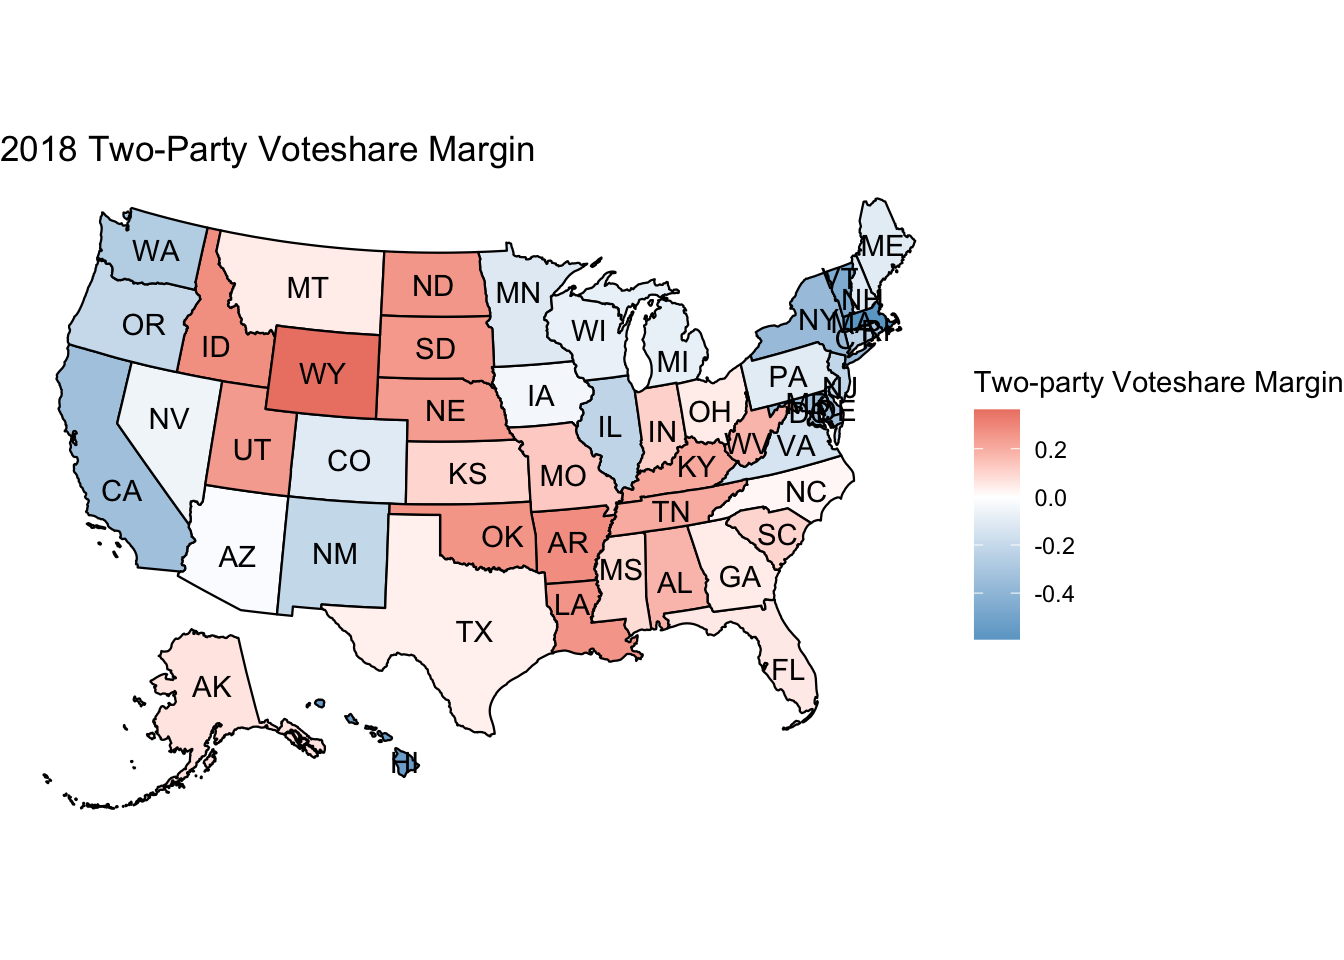
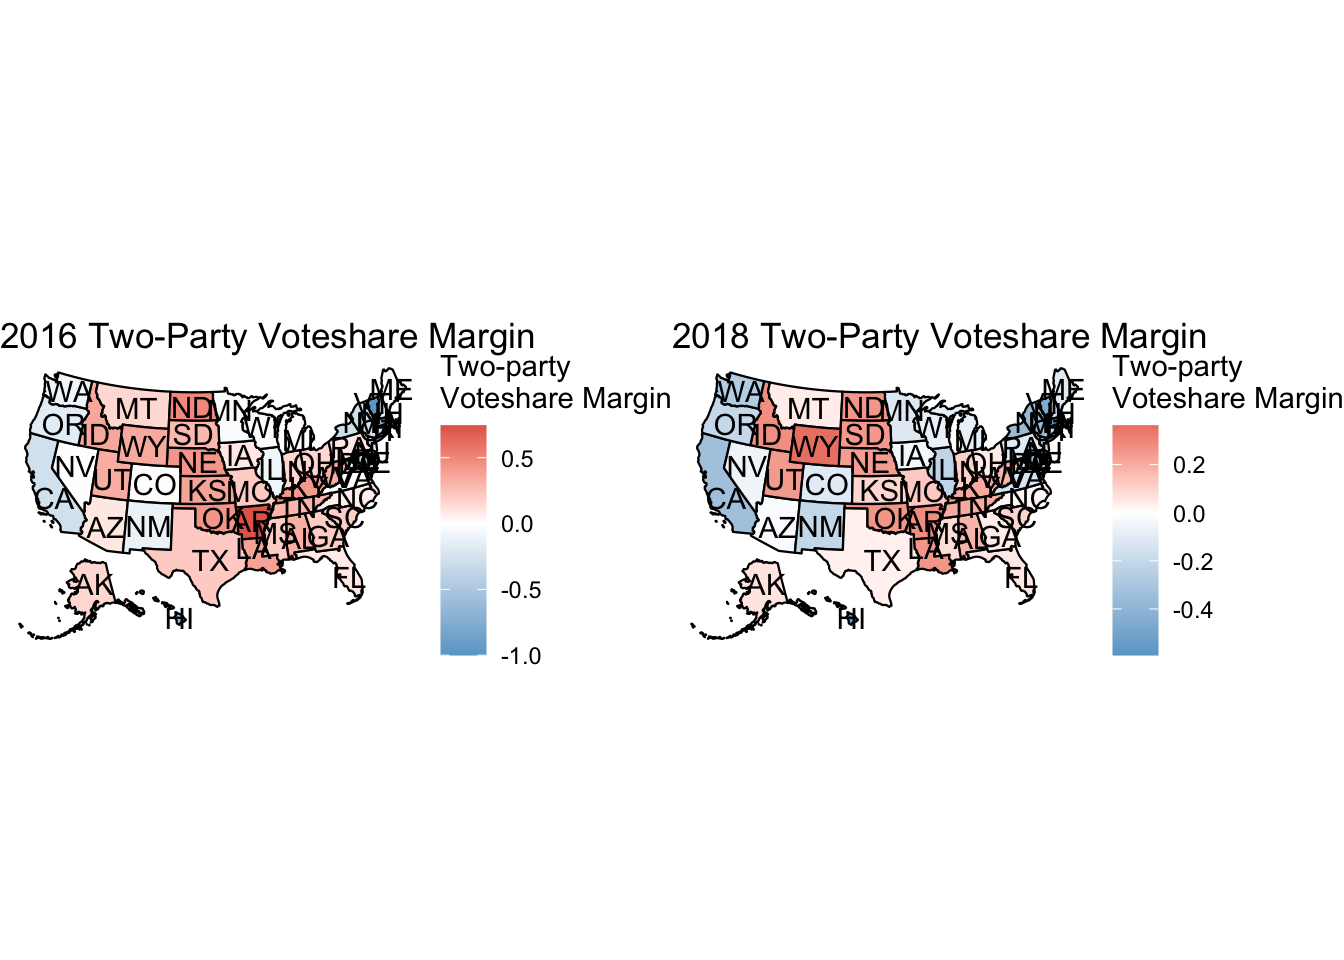
added explanation

Changed region(s): [[0.0, 0.1875, 1.0, 0.8438], [0.0, 0.125, 0.4062, 0.1875], [0.3438, 0.75, 0.375, 0.7812]]

diff --git a/public/post/2022-09-15-blog-1-analysis/index.html b/public/post/2022-09-15-blog-1-analysis/index.html
@@ -6,7 +6,7 @@
 		<meta charset="UTF-8">
 		<meta name="viewport" content="width=device-width, initial-scale=1.0">
 
-		<title>Blog 1 - Analysis &middot; My New Hugo Site</title>
+		<title>Blog 1 - Vote Share Margins of Congressional Elections &middot; My New Hugo Site</title>
 
 		
 		<link rel="stylesheet" href="/css/style.css">
@@ -56,7 +56,7 @@
         <span>on&nbsp;</span><time datetime="2022-09-15 00:00:00 &#43;0000 UTC">September 15, 2022</time>
 </div>
 
-		<h1 class="post-title">Blog 1 - Analysis</h1>
+		<h1 class="post-title">Blog 1 - Vote Share Margins of Congressional Elections</h1>
 <div class="post-line"></div>
 
 		
@@ -64,16 +64,26 @@
 		
 
 
-<p>This week, I looked at the Republican/Democrat voteshare margin of House congressional elections. I analyzed the 2018 and 2014 congressional elections.</p>
+<p>Hello! My name is June Park and I am a junior at the college studying Government on the data science track and this is the beginning of my blog for GOV 1347: Election Analytics.</p>
+<p>This week, I focused on visualization customization of congressional races.</p>
+<div id="map-of-republicandemocrat-vote-share-margin-by-state-2016-2018" class="section level2">
+<h2>Map of Republican/Democrat vote-share margin by STATE (2016, 2018):</h2>
 <p><img src="http://example.org/post/2022-09-15-blog-1-analysis/index_files/figure-html/unnamed-chunk-3-1.png" width="672" /></p>
-<p><img src="http://example.org/post/2022-09-15-blog-1-analysis/index_files/figure-html/unnamed-chunk-5-1.png" width="672" /></p>
+<p>The first set of maps (see above) represent the two-party vote share margin in the 2016 and 2018 congressional elections. Vote share margin indicates the proportion of the <em>difference</em> between the Republican and Democratic vote share <span class="math inline">\(\frac{(RepublicanVotes-DemocratVotes)}{(RepublicanVotes+DemocratVotes)}\)</span>. When the vote share margin is <strong>less than 0</strong>, this means that the majority of the votes went to the <strong>Democratic party</strong>; on the other hand, when the vote share margin is <strong>greater than 0</strong>, this means that the majority of the votes went to the <strong>Republican party</strong>. The greater the absolute value of the vote share margin (e.g., -0.4 or 0.4), the greater the difference in vote share margin between the two parties. For example, in the 2018 election, Pennsylvania had a vote share margin of -0.103, which indicates that the total Democratic vote share was about 10.3% more than the total Republican vote share. However, one caveat to note is that if the vote share margin is 1, this usually means that the candidates in the state ran unopposed, resulting in all of the votes going to the one party.</p>
+<p>The map on the left represents the results of the 2016 congressional elections, while the map on the right represents the results of the 2018 congressional elections. Compared to the 2018 map, the 2016 map has more muted blue states, which indicates states with weaker margins of vote share for Democrats. The 2016 congressional elections coincided with the presidential election of Donald Trump where Republicans saw more victory nationwide. But in the 2018 map, we see many of the states that were muted blue become much deeper blue and even some muted red states turn blue, especially in the Midwest area. In 2018, a historic voter turnout for a midterm election, in what seemed like an ultimatum against Trump, flipped many congressional seats back to blue. For example, in the 2016 congressional elections, the majority of votes went to the Republicans in Pennsylvania, but in 2018 this pattern was reversed and the majority of votes went to the Democrats in Pennsylvania. As a result, the Pennsylvania Democrats gained an additional 3 congressional seats, while the Republicans lost 1 seat.</p>
+</div>
+<div id="map-of-republicandemocrat-vote-share-margin-by-congressional-district-2014" class="section level2">
+<h2>Map of Republican/Democrat vote share margin by CONGRESSIONAL DISTRICT (2014):</h2>
+<p><img src="http://example.org/post/2022-09-15-blog-1-analysis/index_files/figure-html/unnamed-chunk-5-1.png" width="672" />
+This map disaggregates the data so that one can examine the vote share margin at the congressional district level, which allows for more nuanced analysis than the previous maps simply at the state level. For example, in California, at the state-level it would usually be colored “blue” for a vote share margin favoring Democrats, but disaggregating the data to the congressional district level reveals districts where the Republican vote share was greater. In fact, at the state level, the Democratic total vote share was about 7% greater than the Republican total vote share. However, in California’s District 1, the Republican vote share was about 22% greater than the Democratic vote share.</p>
+<p>These exercises have made me think about what is the best way to present data, especially election contestation. I look forward to using other outcome measures, like party seat change, on top of vote share margin in analyzing election results.</p>
+</div>
 
 
 		
 	</div>
 
 	<div class="pagination">
-		<a href="/post/2022-09-15-blog-1/blog1/" class="right arrow">&#8594;</a>
 
 		<a href="#" class="top">Top</a>
 	</div>
@@ -83,7 +93,7 @@
         		<footer>
 			
 			<span>
-			&copy; <time datetime="2022-09-15 01:18:39.556997 -0400 EDT m=&#43;0.093372171">2022</time> . Made with <a href='https://gohugo.io'>Hugo</a> using the <a href='https://github.com/EmielH/tale-hugo/'>Tale</a> theme.
+			&copy; <time datetime="2022-09-15 06:05:29.777848 -0400 EDT m=&#43;0.082314332">2022</time> . Made with <a href='https://gohugo.io'>Hugo</a> using the <a href='https://github.com/EmielH/tale-hugo/'>Tale</a> theme.
 			</span>
 		</footer>
 

diff --git a/content/post/2022-09-15-blog-1-analysis/index.html b/content/post/2022-09-15-blog-1-analysis/index.html
@@ -1,5 +1,5 @@
 ---
-title: "Blog 1 - Analysis"
+title: "Blog 1 - Vote Share Margins of Congressional Elections"
 author: "June Park"
 date: '2022-09-15'
 output: pdf_document
@@ -10,6 +10,17 @@ slug: []
 
 
 
-<p>This week, I looked at the Republican/Democrat voteshare margin of House congressional elections. I analyzed the 2018 and 2014 congressional elections.</p>
-<p><img src="{{< blogdown/postref >}}index_files/figure-html/unnamed-chunk-3-1.png" width="672" /><img src="{{< blogdown/postref >}}index_files/figure-html/unnamed-chunk-3-2.png" width="672" /></p>
-<p><img src="{{< blogdown/postref >}}index_files/figure-html/unnamed-chunk-5-1.png" width="672" /></p>
+<p>Hello! My name is June Park and I am a junior at the college studying Government on the data science track and this is the beginning of my blog for GOV 1347: Election Analytics.</p>
+<p>This week, I focused on visualization customization of congressional races.</p>
+<div id="map-of-republicandemocrat-vote-share-margin-by-state-2016-2018" class="section level2">
+<h2>Map of Republican/Democrat vote-share margin by STATE (2016, 2018):</h2>
+<p><img src="{{< blogdown/postref >}}index_files/figure-html/unnamed-chunk-3-1.png" width="672" /></p>
+<p>The first set of maps (see above) represent the two-party vote share margin in the 2016 and 2018 congressional elections. Vote share margin indicates the proportion of the <em>difference</em> between the Republican and Democratic vote share <span class="math inline">\(\frac{(RepublicanVotes-DemocratVotes)}{(RepublicanVotes+DemocratVotes)}\)</span>. When the vote share margin is <strong>less than 0</strong>, this means that the majority of the votes went to the <strong>Democratic party</strong>; on the other hand, when the vote share margin is <strong>greater than 0</strong>, this means that the majority of the votes went to the <strong>Republican party</strong>. The greater the absolute value of the vote share margin (e.g., -0.4 or 0.4), the greater the difference in vote share margin between the two parties. For example, in the 2018 election, Pennsylvania had a vote share margin of -0.103, which indicates that the total Democratic vote share was about 10.3% more than the total Republican vote share. However, one caveat to note is that if the vote share margin is 1, this usually means that the candidates in the state ran unopposed, resulting in all of the votes going to the one party.</p>
+<p>The map on the left represents the results of the 2016 congressional elections, while the map on the right represents the results of the 2018 congressional elections. Compared to the 2018 map, the 2016 map has more muted blue states, which indicates states with weaker margins of vote share for Democrats. The 2016 congressional elections coincided with the presidential election of Donald Trump where Republicans saw more victory nationwide. But in the 2018 map, we see many of the states that were muted blue become much deeper blue and even some muted red states turn blue, especially in the Midwest area. In 2018, a historic voter turnout for a midterm election, in what seemed like an ultimatum against Trump, flipped many congressional seats back to blue. For example, in the 2016 congressional elections, the majority of votes went to the Republicans in Pennsylvania, but in 2018 this pattern was reversed and the majority of votes went to the Democrats in Pennsylvania. As a result, the Pennsylvania Democrats gained an additional 3 congressional seats, while the Republicans lost 1 seat.</p>
+</div>
+<div id="map-of-republicandemocrat-vote-share-margin-by-congressional-district-2014" class="section level2">
+<h2>Map of Republican/Democrat vote share margin by CONGRESSIONAL DISTRICT (2014):</h2>
+<p><img src="{{< blogdown/postref >}}index_files/figure-html/unnamed-chunk-5-1.png" width="672" />
+This map disaggregates the data so that one can examine the vote share margin at the congressional district level, which allows for more nuanced analysis than the previous maps simply at the state level. For example, in California, at the state-level it would usually be colored “blue” for a vote share margin favoring Democrats, but disaggregating the data to the congressional district level reveals districts where the Republican vote share was greater. In fact, at the state level, the Democratic total vote share was about 7% greater than the Republican total vote share. However, in California’s District 1, the Republican vote share was about 22% greater than the Democratic vote share.</p>
+<p>These exercises have made me think about what is the best way to present data, especially election contestation. I look forward to using other outcome measures, like party seat change, on top of vote share margin in analyzing election results.</p>
+</div>

diff --git a/public/post/index.html b/public/post/index.html
@@ -47,28 +47,16 @@
 <main>
 	<div class="catalogue">
 		
-			<a href="http://example.org/post/2022-09-15-blog-1/blog1/" class="catalogue-item">
-    <div>
-        <time datetime="2022-09-15 00:00:00 &#43;0000 UTC" class="catalogue-time">September 15, 2022</time>
-        <h2 class="catalogue-title">Blog 1</h2>
-        <div class="catalogue-line"></div>
-
-        <p>
-             This week, I looked at the Republican/Democrat voteshare margin of House congressional elections. I analyzed the 2018 and 2014 congressional elections.
-# Plot of 2018 voteshare margin plot_usmap(data = house2018, regions = &quot;states&quot;, values = &quot;Votemargin&quot;, labels = TRUE) + scale_fill_gradient2(low = &quot;skyblue3&quot;, mid = &quot;white&quot;, high = &quot;firebrick3&quot;, name = &quot;Two-party Voteshare Margin&quot;) + labs(title = &quot;2018 Two-Party Voteshare Margin&quot;) + theme_void() # Graph ggplot() + geom_sf(data = simplified_cd114, mapping = aes(fill = voteshare_margin)) + scale_fill_gradient2(low = &quot;skyblue3&quot;, mid = &quot;white&quot;, high = &quot;firebrick3&quot;, name = &quot;Two-Party \nVoteshare Margin&quot;) + theme_void() + labs(title = &quot;Two-Party Vote-Share Margin by District&quot;, subtitle = &quot;2014 Midterm Election&quot;) 
-        </p>
-    </div>
-</a>
-
-		
 			<a href="http://example.org/post/2022-09-15-blog-1-analysis/" class="catalogue-item">
     <div>
         <time datetime="2022-09-15 00:00:00 &#43;0000 UTC" class="catalogue-time">September 15, 2022</time>
-        <h2 class="catalogue-title">Blog 1 - Analysis</h2>
+        <h2 class="catalogue-title">Blog 1 - Vote Share Margins of Congressional Elections</h2>
         <div class="catalogue-line"></div>
 
         <p>
-            This week, I looked at the Republican/Democrat voteshare margin of House congressional elections. I analyzed the 2018 and 2014 congressional elections.
+            Hello! My name is June Park and I am a junior at the college studying Government on the data science track and this is the beginning of my blog for GOV 1347: Election Analytics.
+This week, I focused on visualization customization of congressional races.
+Map of Republican/Democrat vote-share margin by STATE (2016, 2018): The first set of maps (see above) represent the two-party vote share margin in the 2016 and 2018 congressional elections.
         </p>
     </div>
 </a>
@@ -88,7 +76,7 @@
         		<footer>
 			
 			<span>
-			&copy; <time datetime="2022-09-15 01:18:39.545354 -0400 EDT m=&#43;0.081729488">2022</time> . Made with <a href='https://gohugo.io'>Hugo</a> using the <a href='https://github.com/EmielH/tale-hugo/'>Tale</a> theme.
+			&copy; <time datetime="2022-09-15 06:05:29.763177 -0400 EDT m=&#43;0.067643154">2022</time> . Made with <a href='https://gohugo.io'>Hugo</a> using the <a href='https://github.com/EmielH/tale-hugo/'>Tale</a> theme.
 			</span>
 		</footer>
 

diff --git a/public/index.html b/public/index.html
@@ -52,28 +52,16 @@
 
 	<div class="catalogue">
 		
-			<a href="http://example.org/post/2022-09-15-blog-1/blog1/" class="catalogue-item">
-    <div>
-        <time datetime="2022-09-15 00:00:00 &#43;0000 UTC" class="catalogue-time">September 15, 2022</time>
-        <h2 class="catalogue-title">Blog 1</h2>
-        <div class="catalogue-line"></div>
-
-        <p>
-             This week, I looked at the Republican/Democrat voteshare margin of House congressional elections. I analyzed the 2018 and 2014 congressional elections.
-# Plot of 2018 voteshare margin plot_usmap(data = house2018, regions = &quot;states&quot;, values = &quot;Votemargin&quot;, labels = TRUE) + scale_fill_gradient2(low = &quot;skyblue3&quot;, mid = &quot;white&quot;, high = &quot;firebrick3&quot;, name = &quot;Two-party Voteshare Margin&quot;) + labs(title = &quot;2018 Two-Party Voteshare Margin&quot;) + theme_void() # Graph ggplot() + geom_sf(data = simplified_cd114, mapping = aes(fill = voteshare_margin)) + scale_fill_gradient2(low = &quot;skyblue3&quot;, mid = &quot;white&quot;, high = &quot;firebrick3&quot;, name = &quot;Two-Party \nVoteshare Margin&quot;) + theme_void() + labs(title = &quot;Two-Party Vote-Share Margin by District&quot;, subtitle = &quot;2014 Midterm Election&quot;) 
-        </p>
-    </div>
-</a>
-
-		
 			<a href="http://example.org/post/2022-09-15-blog-1-analysis/" class="catalogue-item">
     <div>
         <time datetime="2022-09-15 00:00:00 &#43;0000 UTC" class="catalogue-time">September 15, 2022</time>
-        <h2 class="catalogue-title">Blog 1 - Analysis</h2>
+        <h2 class="catalogue-title">Blog 1 - Vote Share Margins of Congressional Elections</h2>
         <div class="catalogue-line"></div>
 
         <p>
-            This week, I looked at the Republican/Democrat voteshare margin of House congressional elections. I analyzed the 2018 and 2014 congressional elections.
+            Hello! My name is June Park and I am a junior at the college studying Government on the data science track and this is the beginning of my blog for GOV 1347: Election Analytics.
+This week, I focused on visualization customization of congressional races.
+Map of Republican/Democrat vote-share margin by STATE (2016, 2018): The first set of maps (see above) represent the two-party vote share margin in the 2016 and 2018 congressional elections.
         </p>
     </div>
 </a>
@@ -93,7 +81,7 @@
         		<footer>
 			
 			<span>
-			&copy; <time datetime="2022-09-15 01:18:39.545267 -0400 EDT m=&#43;0.081641669">2022</time> . Made with <a href='https://gohugo.io'>Hugo</a> using the <a href='https://github.com/EmielH/tale-hugo/'>Tale</a> theme.
+			&copy; <time datetime="2022-09-15 06:05:29.76386 -0400 EDT m=&#43;0.068326352">2022</time> . Made with <a href='https://gohugo.io'>Hugo</a> using the <a href='https://github.com/EmielH/tale-hugo/'>Tale</a> theme.
 			</span>
 		</footer>
 

diff --git a/public/categories/index.html b/public/categories/index.html
@@ -57,7 +57,7 @@
         		<footer>
 			
 			<span>
-			&copy; <time datetime="2022-09-15 01:18:39.539496 -0400 EDT m=&#43;0.075871238">2022</time> . Made with <a href='https://gohugo.io'>Hugo</a> using the <a href='https://github.com/EmielH/tale-hugo/'>Tale</a> theme.
+			&copy; <time datetime="2022-09-15 06:05:29.762725 -0400 EDT m=&#43;0.067190603">2022</time> . Made with <a href='https://gohugo.io'>Hugo</a> using the <a href='https://github.com/EmielH/tale-hugo/'>Tale</a> theme.
 			</span>
 		</footer>
 

diff --git a/public/tags/index.html b/public/tags/index.html
@@ -57,7 +57,7 @@
         		<footer>
 			
 			<span>
-			&copy; <time datetime="2022-09-15 01:18:39.539399 -0400 EDT m=&#43;0.075773790">2022</time> . Made with <a href='https://gohugo.io'>Hugo</a> using the <a href='https://github.com/EmielH/tale-hugo/'>Tale</a> theme.
+			&copy; <time datetime="2022-09-15 06:05:29.761866 -0400 EDT m=&#43;0.066331889">2022</time> . Made with <a href='https://gohugo.io'>Hugo</a> using the <a href='https://github.com/EmielH/tale-hugo/'>Tale</a> theme.
 			</span>
 		</footer>
 
